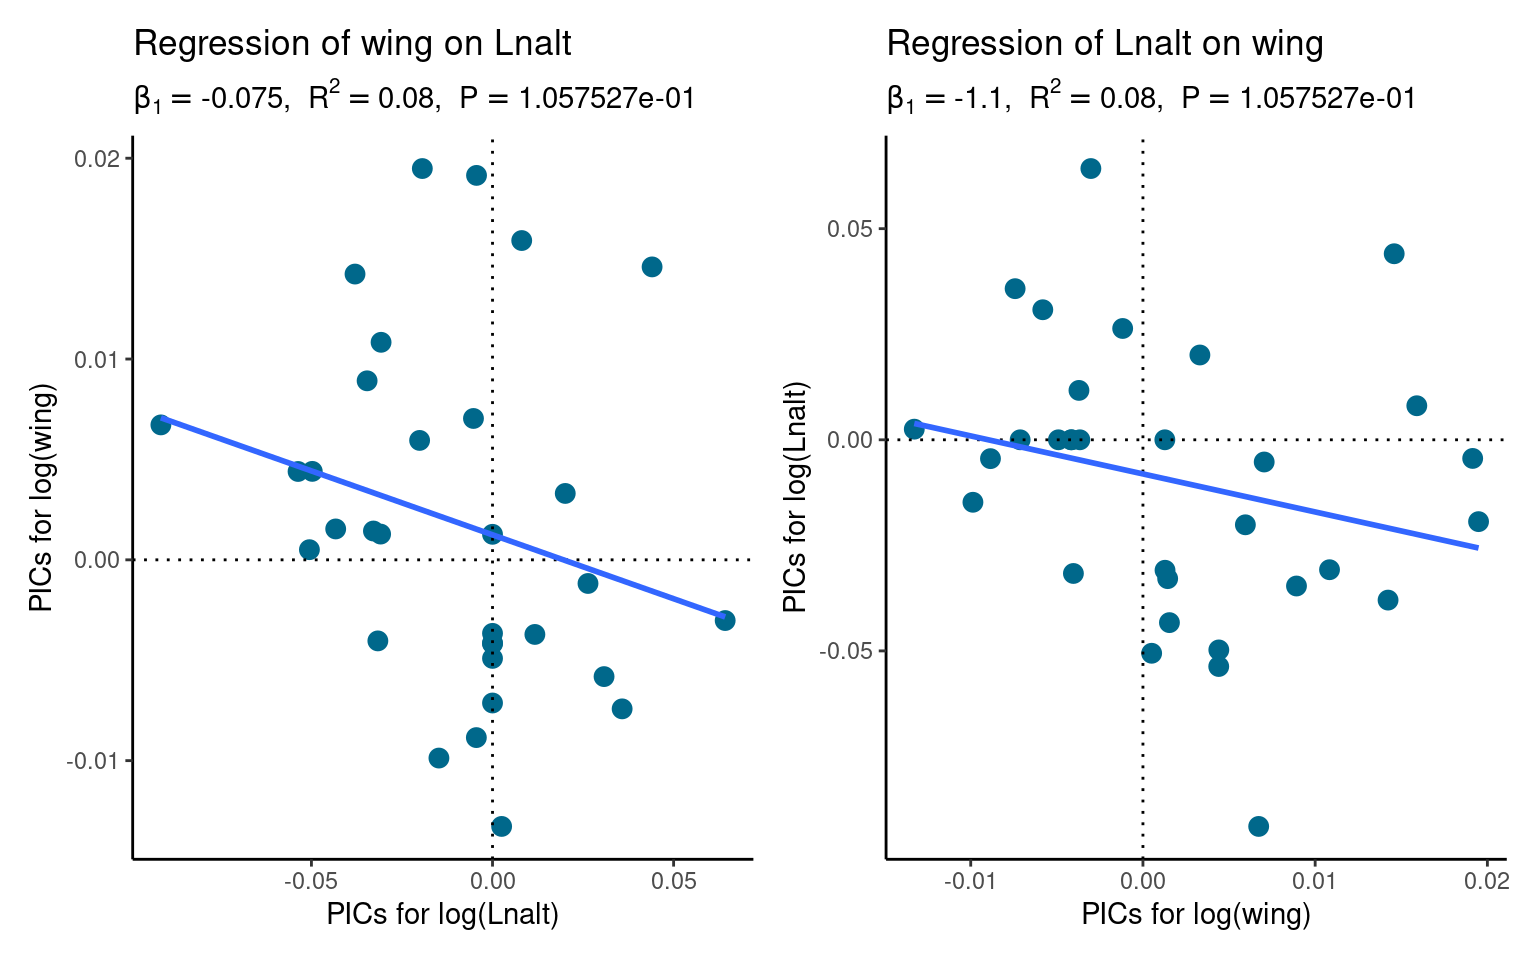
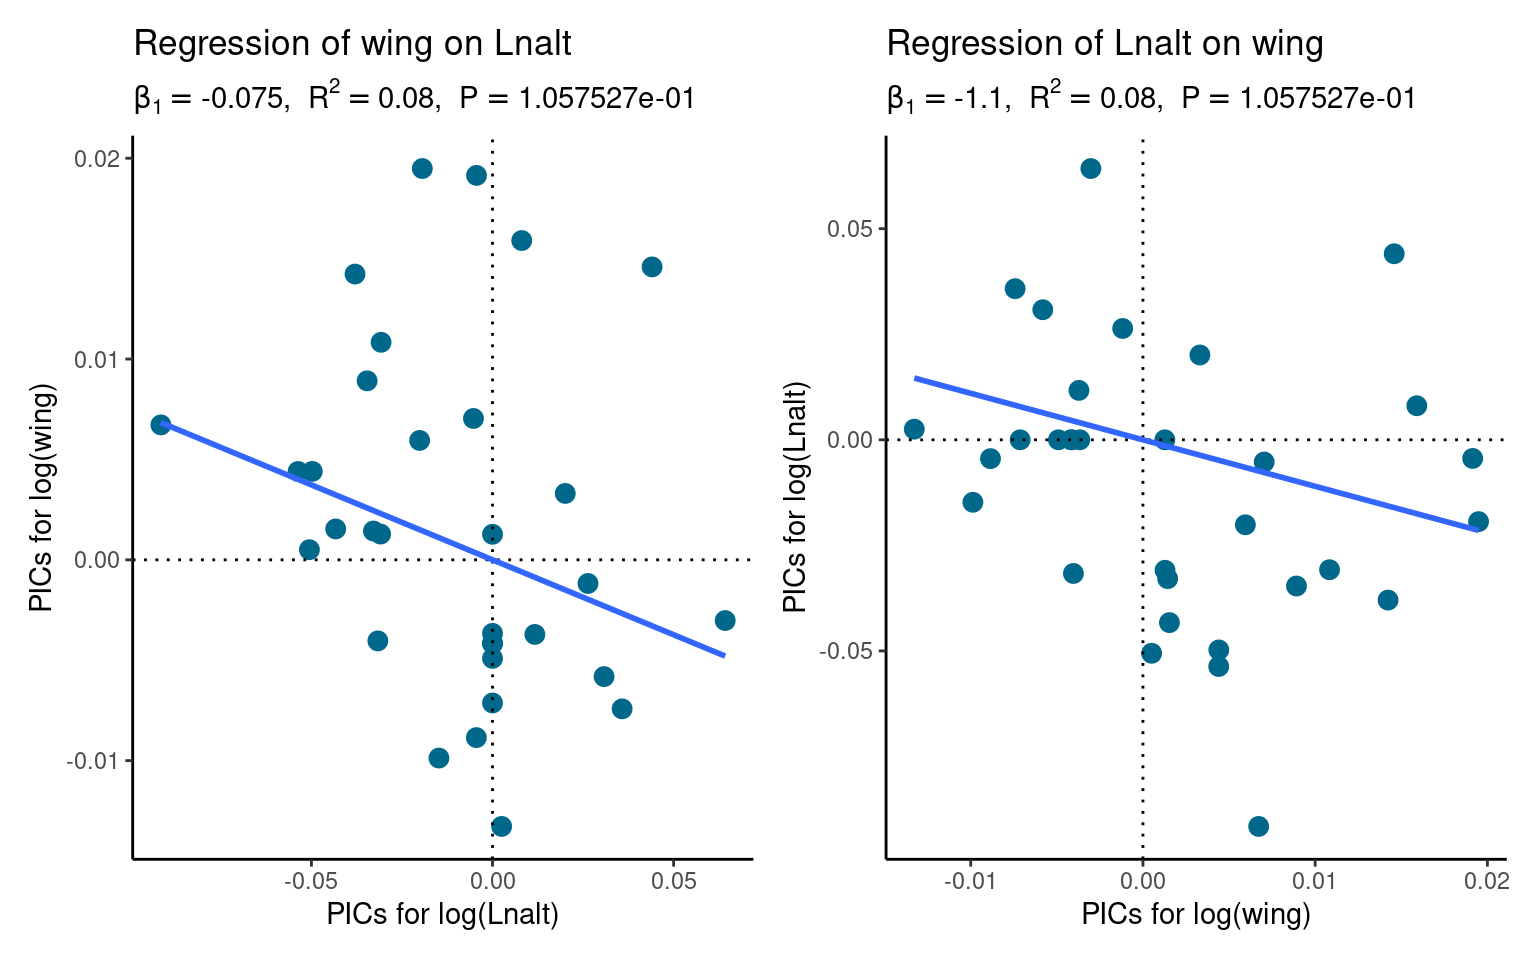
Built site for gh-pages

diff --git a/chapter_02.html b/chapter_02.html
@@ -430,6 +430,7 @@ F-statistic: 44.26 on 1 and 22 DF,  p-value: 1.091e-06</code></pre>
 </div>
 </div>
 <p>Results and conclusions did not change.</p>
+<hr>
 <ol start="2" type="1">
 <li>On the book website, we supply some data for a group of Asian barbets (<code>BarbetTree.nex</code> and <code>Barbetdata_mod.csv</code>): members of the bird family Megalaimidae <span class="citation" data-cites="gonzalez2013evolution">(<a href="#ref-gonzalez2013evolution" role="doc-biblioref">Gonzalez-Voyer et al. 2013</a>)</span>. Using these data and the method of phylogenetic independent contrasts, test for a relationship between the two variables <em>Lnalt</em> and <em>wing</em>. What do you find? How does the slope of your relationship change if you fit <em>Lnalt wing</em> versus <em>wing Lnalt</em>? How does the P-value of a statistical test of this relationship change?</li>
 </ol>
@@ -515,7 +516,7 @@ character(0)</code></pre>
 <span id="cb24-30"><a href="#cb24-30" aria-hidden="true" tabindex="-1"></a>        <span class="fu">geom_point</span>(<span class="at">size =</span> <span class="dv">3</span>, <span class="at">color =</span> <span class="st">"deepskyblue4"</span>) <span class="sc">+</span></span>
 <span id="cb24-31"><a href="#cb24-31" aria-hidden="true" tabindex="-1"></a>        <span class="fu">geom_vline</span>(<span class="at">xintercept =</span> <span class="dv">0</span>, <span class="at">linetype =</span> <span class="dv">3</span>) <span class="sc">+</span></span>
 <span id="cb24-32"><a href="#cb24-32" aria-hidden="true" tabindex="-1"></a>        <span class="fu">geom_hline</span>(<span class="at">yintercept =</span> <span class="dv">0</span>, <span class="at">linetype =</span> <span class="dv">3</span>) <span class="sc">+</span></span>
-<span id="cb24-33"><a href="#cb24-33" aria-hidden="true" tabindex="-1"></a>        <span class="fu">geom_smooth</span>(<span class="at">method =</span> <span class="st">"lm"</span>, <span class="at">se =</span> <span class="cn">FALSE</span>, <span class="at">formula =</span> <span class="st">"y ~ x"</span>) <span class="sc">+</span></span>
+<span id="cb24-33"><a href="#cb24-33" aria-hidden="true" tabindex="-1"></a>        <span class="fu">geom_smooth</span>(<span class="at">method =</span> <span class="st">"lm"</span>, <span class="at">se =</span> <span class="cn">FALSE</span>, <span class="at">formula =</span> <span class="st">"y ~ x+0"</span>) <span class="sc">+</span></span>
 <span id="cb24-34"><a href="#cb24-34" aria-hidden="true" tabindex="-1"></a>        <span class="fu">labs</span>(</span>
 <span id="cb24-35"><a href="#cb24-35" aria-hidden="true" tabindex="-1"></a>            <span class="at">title =</span> <span class="fu">paste0</span>(<span class="st">"Regression of "</span>, y, <span class="st">" on "</span>, x),</span>
 <span id="cb24-36"><a href="#cb24-36" aria-hidden="true" tabindex="-1"></a>            <span class="at">subtitle =</span> subtitle,</span>
@@ -543,6 +544,7 @@ character(0)</code></pre>
 </div>
 </div>
 <p>In both models (regressing <code>wing</code> on <code>Lnalt</code> and regressing <code>Lnalt</code> on <code>wing</code>), there is no significant association association between the variables. The P-value and variance explained remain the same, but the slope (<span class="math inline">\(B_1\)</span>) changes, which is expected considering that predictors and outcomes have been flipped.</p>
+<hr>
 <ol start="3" type="1">
 <li>If you multiply all the branches of your phylogenetic tree by 100, will your independent contrasts analysis change? Why or why not? Can you confirm this using R code? Don’t forget to use what you learned about the internal structure of a “phylo” object in chapter 1 to modify your tree.</li>
 </ol>
@@ -587,6 +589,91 @@ character(0)</code></pre>
 </div>
 </div>
 <p>The PICs change (PICs using the modified tree are the PICs of the original tree divided by 10), but the results of the regression using PICs do not change, because the relationship between the species (i.e., the tree topology) remained the same after multiplying branch lengths by 100.</p>
+<hr>
+<ol start="4" type="1">
+<li>Repeat the simulation analysis of type I error for OLS, in the last section of the chapter, but using a “pure-birth” model of diversification (i.e., trees simulated using <code>pbtree()</code> but with the extinction rate, <em>d</em>, set to 0). How does this change to the way your phylogenies are simulated affect your results? In particular, does it cause the type I error rate that results from ignoring the phylogeny to go up or go down? Can you explain the differences that you find?</li>
+</ol>
+<div class="cell">
+<div class="sourceCode cell-code" id="cb32"><pre class="sourceCode r code-with-copy"><code class="sourceCode r"><span id="cb32-1"><a href="#cb32-1" aria-hidden="true" tabindex="-1"></a><span class="co"># Define function to simulate P-values for OLS and regression on PICs</span></span>
+<span id="cb32-2"><a href="#cb32-2" aria-hidden="true" tabindex="-1"></a>simulate_pvals <span class="ot">&lt;-</span> <span class="cf">function</span>(<span class="at">birth =</span> <span class="dv">1</span>, <span class="at">death =</span> <span class="dv">0</span>) {</span>
+<span id="cb32-3"><a href="#cb32-3" aria-hidden="true" tabindex="-1"></a>    </span>
+<span id="cb32-4"><a href="#cb32-4" aria-hidden="true" tabindex="-1"></a>    <span class="co"># Helper function to simulate trees and discard trees that go extinct</span></span>
+<span id="cb32-5"><a href="#cb32-5" aria-hidden="true" tabindex="-1"></a>    sim_tree <span class="ot">&lt;-</span> <span class="cf">function</span>() { </span>
+<span id="cb32-6"><a href="#cb32-6" aria-hidden="true" tabindex="-1"></a>        tree <span class="ot">&lt;-</span> <span class="cn">NULL</span> </span>
+<span id="cb32-7"><a href="#cb32-7" aria-hidden="true" tabindex="-1"></a>        <span class="cf">while</span>(<span class="fu">is.null</span>(tree)) {</span>
+<span id="cb32-8"><a href="#cb32-8" aria-hidden="true" tabindex="-1"></a>            tree <span class="ot">&lt;-</span> <span class="fu">pbtree</span>(</span>
+<span id="cb32-9"><a href="#cb32-9" aria-hidden="true" tabindex="-1"></a>                <span class="at">n =</span> <span class="dv">100</span>, <span class="at">b =</span> birth, <span class="at">d =</span> death, <span class="at">extant.only =</span> <span class="cn">TRUE</span>, <span class="at">quiet =</span> <span class="cn">TRUE</span></span>
+<span id="cb32-10"><a href="#cb32-10" aria-hidden="true" tabindex="-1"></a>            )</span>
+<span id="cb32-11"><a href="#cb32-11" aria-hidden="true" tabindex="-1"></a>        }</span>
+<span id="cb32-12"><a href="#cb32-12" aria-hidden="true" tabindex="-1"></a>        <span class="fu">return</span>(tree)</span>
+<span id="cb32-13"><a href="#cb32-13" aria-hidden="true" tabindex="-1"></a>    }</span>
+<span id="cb32-14"><a href="#cb32-14" aria-hidden="true" tabindex="-1"></a>    </span>
+<span id="cb32-15"><a href="#cb32-15" aria-hidden="true" tabindex="-1"></a></span>
+<span id="cb32-16"><a href="#cb32-16" aria-hidden="true" tabindex="-1"></a>    <span class="co"># Simulate 500 trees in a list using replicate</span></span>
+<span id="cb32-17"><a href="#cb32-17" aria-hidden="true" tabindex="-1"></a>    trees <span class="ot">&lt;-</span> <span class="fu">replicate</span>(<span class="dv">500</span>, <span class="fu">sim_tree</span>(), <span class="at">simplify=</span><span class="cn">FALSE</span>)  </span>
+<span id="cb32-18"><a href="#cb32-18" aria-hidden="true" tabindex="-1"></a>    <span class="fu">class</span>(trees) <span class="ot">&lt;-</span> <span class="st">"multiPhylo"</span></span>
+<span id="cb32-19"><a href="#cb32-19" aria-hidden="true" tabindex="-1"></a>    </span>
+<span id="cb32-20"><a href="#cb32-20" aria-hidden="true" tabindex="-1"></a>    <span class="co"># Simulate a list of `x` and `y` vectors, one for each tree  </span></span>
+<span id="cb32-21"><a href="#cb32-21" aria-hidden="true" tabindex="-1"></a>    x <span class="ot">&lt;-</span> <span class="fu">lapply</span>(trees, fastBM)</span>
+<span id="cb32-22"><a href="#cb32-22" aria-hidden="true" tabindex="-1"></a>    y <span class="ot">&lt;-</span> <span class="fu">lapply</span>(trees, fastBM)</span>
+<span id="cb32-23"><a href="#cb32-23" aria-hidden="true" tabindex="-1"></a>    </span>
+<span id="cb32-24"><a href="#cb32-24" aria-hidden="true" tabindex="-1"></a>    <span class="co"># 1) Fit non-phylogenetic regression (OLS) of y ~ x</span></span>
+<span id="cb32-25"><a href="#cb32-25" aria-hidden="true" tabindex="-1"></a>    fit_ols <span class="ot">&lt;-</span> <span class="fu">mapply</span>(<span class="cf">function</span>(x, y) <span class="fu">lm</span>(y <span class="sc">~</span> x), x, y, <span class="at">SIMPLIFY=</span><span class="cn">FALSE</span>)</span>
+<span id="cb32-26"><a href="#cb32-26" aria-hidden="true" tabindex="-1"></a>    </span>
+<span id="cb32-27"><a href="#cb32-27" aria-hidden="true" tabindex="-1"></a>    p_ols <span class="ot">&lt;-</span> <span class="fu">vapply</span>(</span>
+<span id="cb32-28"><a href="#cb32-28" aria-hidden="true" tabindex="-1"></a>        fit_ols, <span class="cf">function</span>(x) <span class="fu">summary</span>(x)<span class="sc">$</span>coefficients[<span class="dv">2</span>, <span class="dv">4</span>], <span class="fu">numeric</span>(<span class="dv">1</span>)</span>
+<span id="cb32-29"><a href="#cb32-29" aria-hidden="true" tabindex="-1"></a>    )</span>
+<span id="cb32-30"><a href="#cb32-30" aria-hidden="true" tabindex="-1"></a>    </span>
+<span id="cb32-31"><a href="#cb32-31" aria-hidden="true" tabindex="-1"></a>    <span class="co"># 2) Fit regression on PICs</span></span>
+<span id="cb32-32"><a href="#cb32-32" aria-hidden="true" tabindex="-1"></a>    pic.x <span class="ot">&lt;-</span> <span class="fu">mapply</span>(pic, x, trees, <span class="at">SIMPLIFY =</span> <span class="cn">FALSE</span>)</span>
+<span id="cb32-33"><a href="#cb32-33" aria-hidden="true" tabindex="-1"></a>    pic.y <span class="ot">&lt;-</span> <span class="fu">mapply</span>(pic, y, trees, <span class="at">SIMPLIFY =</span> <span class="cn">FALSE</span>) </span>
+<span id="cb32-34"><a href="#cb32-34" aria-hidden="true" tabindex="-1"></a>    fit_pic <span class="ot">&lt;-</span> <span class="fu">mapply</span>(<span class="cf">function</span>(x, y) <span class="fu">lm</span>(y <span class="sc">~</span> x<span class="sc">+</span><span class="dv">0</span>), pic.x, pic.y, <span class="at">SIMPLIFY =</span> <span class="cn">FALSE</span>)</span>
+<span id="cb32-35"><a href="#cb32-35" aria-hidden="true" tabindex="-1"></a>    </span>
+<span id="cb32-36"><a href="#cb32-36" aria-hidden="true" tabindex="-1"></a>    p_pic <span class="ot">&lt;-</span> <span class="fu">vapply</span>(</span>
+<span id="cb32-37"><a href="#cb32-37" aria-hidden="true" tabindex="-1"></a>        fit_pic, <span class="cf">function</span>(x) <span class="fu">summary</span>(x)<span class="sc">$</span>coefficients[<span class="dv">4</span>], <span class="fu">numeric</span>(<span class="dv">1</span>)</span>
+<span id="cb32-38"><a href="#cb32-38" aria-hidden="true" tabindex="-1"></a>    )</span>
+<span id="cb32-39"><a href="#cb32-39" aria-hidden="true" tabindex="-1"></a>    </span>
+<span id="cb32-40"><a href="#cb32-40" aria-hidden="true" tabindex="-1"></a>    <span class="co"># Store p-values in a list</span></span>
+<span id="cb32-41"><a href="#cb32-41" aria-hidden="true" tabindex="-1"></a>    results <span class="ot">&lt;-</span> <span class="fu">list</span>(<span class="at">P_OLS =</span> p_ols, <span class="at">P_PIC =</span> p_pic)</span>
+<span id="cb32-42"><a href="#cb32-42" aria-hidden="true" tabindex="-1"></a>    <span class="fu">return</span>(results)</span>
+<span id="cb32-43"><a href="#cb32-43" aria-hidden="true" tabindex="-1"></a>}</span>
+<span id="cb32-44"><a href="#cb32-44" aria-hidden="true" tabindex="-1"></a></span>
+<span id="cb32-45"><a href="#cb32-45" aria-hidden="true" tabindex="-1"></a></span>
+<span id="cb32-46"><a href="#cb32-46" aria-hidden="true" tabindex="-1"></a><span class="co"># Get P-values for regressions on simulated data</span></span>
+<span id="cb32-47"><a href="#cb32-47" aria-hidden="true" tabindex="-1"></a><span class="do">## Book example</span></span>
+<span id="cb32-48"><a href="#cb32-48" aria-hidden="true" tabindex="-1"></a>pvals_book <span class="ot">&lt;-</span> <span class="fu">simulate_pvals</span>(<span class="at">birth =</span> <span class="dv">1</span>, <span class="at">death =</span> <span class="fl">0.8</span>)</span>
+<span id="cb32-49"><a href="#cb32-49" aria-hidden="true" tabindex="-1"></a></span>
+<span id="cb32-50"><a href="#cb32-50" aria-hidden="true" tabindex="-1"></a><span class="do">## Practice problem (d = 0)</span></span>
+<span id="cb32-51"><a href="#cb32-51" aria-hidden="true" tabindex="-1"></a>pvals_practice <span class="ot">&lt;-</span> <span class="fu">simulate_pvals</span>(<span class="at">birth =</span> <span class="dv">1</span>, <span class="at">death =</span> <span class="dv">0</span>)</span>
+<span id="cb32-52"><a href="#cb32-52" aria-hidden="true" tabindex="-1"></a></span>
+<span id="cb32-53"><a href="#cb32-53" aria-hidden="true" tabindex="-1"></a><span class="co"># Plot P-vals as histograms</span></span>
+<span id="cb32-54"><a href="#cb32-54" aria-hidden="true" tabindex="-1"></a>plot_pvals <span class="ot">&lt;-</span> <span class="fu">rbind</span>(</span>
+<span id="cb32-55"><a href="#cb32-55" aria-hidden="true" tabindex="-1"></a>    <span class="fu">data.frame</span>(<span class="at">P =</span> pvals_book<span class="sc">$</span>P_OLS, <span class="at">Method =</span> <span class="st">"OLS, d = 0.8"</span>),</span>
+<span id="cb32-56"><a href="#cb32-56" aria-hidden="true" tabindex="-1"></a>    <span class="fu">data.frame</span>(<span class="at">P =</span> pvals_book<span class="sc">$</span>P_PIC, <span class="at">Method =</span> <span class="st">"PIC, d = 0.8"</span>),</span>
+<span id="cb32-57"><a href="#cb32-57" aria-hidden="true" tabindex="-1"></a>    <span class="fu">data.frame</span>(<span class="at">P =</span> pvals_practice<span class="sc">$</span>P_OLS, <span class="at">Method =</span> <span class="st">"OLS, d = 0"</span>),</span>
+<span id="cb32-58"><a href="#cb32-58" aria-hidden="true" tabindex="-1"></a>    <span class="fu">data.frame</span>(<span class="at">P =</span> pvals_practice<span class="sc">$</span>P_PIC, <span class="at">Method =</span> <span class="st">"PIC, d = 0"</span>)</span>
+<span id="cb32-59"><a href="#cb32-59" aria-hidden="true" tabindex="-1"></a>) <span class="sc">|&gt;</span></span>
+<span id="cb32-60"><a href="#cb32-60" aria-hidden="true" tabindex="-1"></a>    <span class="fu">ggplot</span>(<span class="fu">aes</span>(<span class="at">x =</span> P)) <span class="sc">+</span></span>
+<span id="cb32-61"><a href="#cb32-61" aria-hidden="true" tabindex="-1"></a>    <span class="fu">geom_histogram</span>(</span>
+<span id="cb32-62"><a href="#cb32-62" aria-hidden="true" tabindex="-1"></a>        <span class="fu">aes</span>(<span class="at">y =</span> <span class="fu">after_stat</span>(width <span class="sc">*</span> density)),</span>
+<span id="cb32-63"><a href="#cb32-63" aria-hidden="true" tabindex="-1"></a>        <span class="at">color =</span> <span class="st">"gray20"</span>, <span class="at">fill =</span> <span class="st">"gray80"</span>, <span class="at">bins =</span> <span class="dv">30</span></span>
+<span id="cb32-64"><a href="#cb32-64" aria-hidden="true" tabindex="-1"></a>    ) <span class="sc">+</span></span>
+<span id="cb32-65"><a href="#cb32-65" aria-hidden="true" tabindex="-1"></a>    <span class="fu">geom_hline</span>(<span class="at">yintercept =</span> <span class="fl">0.05</span>, <span class="at">linetype =</span> <span class="dv">3</span>) <span class="sc">+</span></span>
+<span id="cb32-66"><a href="#cb32-66" aria-hidden="true" tabindex="-1"></a>    <span class="fu">facet_wrap</span>(<span class="sc">~</span>Method) <span class="sc">+</span></span>
+<span id="cb32-67"><a href="#cb32-67" aria-hidden="true" tabindex="-1"></a>    <span class="fu">labs</span>(</span>
+<span id="cb32-68"><a href="#cb32-68" aria-hidden="true" tabindex="-1"></a>        <span class="at">x =</span> <span class="st">"P-values"</span>, <span class="at">y =</span> <span class="st">"Relative frequency"</span>,</span>
+<span id="cb32-69"><a href="#cb32-69" aria-hidden="true" tabindex="-1"></a>        <span class="at">title =</span> <span class="st">"Distribution of P-values for OLS regression and PIC regression"</span>,</span>
+<span id="cb32-70"><a href="#cb32-70" aria-hidden="true" tabindex="-1"></a>        <span class="at">subtitle =</span> <span class="st">"Uncorrelated data were simulated on stochastic birth–death phylogenies"</span></span>
+<span id="cb32-71"><a href="#cb32-71" aria-hidden="true" tabindex="-1"></a>    ) <span class="sc">+</span></span>
+<span id="cb32-72"><a href="#cb32-72" aria-hidden="true" tabindex="-1"></a>    <span class="fu">ylim</span>(<span class="dv">0</span>, <span class="fl">0.5</span>) <span class="sc">+</span></span>
+<span id="cb32-73"><a href="#cb32-73" aria-hidden="true" tabindex="-1"></a>    <span class="fu">theme_bw</span>()</span>
+<span id="cb32-74"><a href="#cb32-74" aria-hidden="true" tabindex="-1"></a></span>
+<span id="cb32-75"><a href="#cb32-75" aria-hidden="true" tabindex="-1"></a>plot_pvals</span></code><button title="Copy to Clipboard" class="code-copy-button"><i class="bi"></i></button></pre></div>
+<div class="cell-output-display">
+<p><img src="chapter_02_files/figure-html/unnamed-chunk-5-1.png" class="img-fluid" width="672"></p>
+</div>
+</div>
+<p>When we replace <code>d = 0.8</code> with <code>d = 0</code>, the type I error rates go down. A possible explanation is that setting <code>d = 0</code> leads to no extinction in the simulation, leading to a larger number of extant lineages at a given time as compared to <code>d = 0.8</code>. Thus, such larger number of extant lineages increases statistical power, hence leading to lower type I error rates.</p>
 </section>
 <section id="references" class="level2 unnumbered">
 <h2 class="unnumbered anchored" data-anchor-id="references">References</h2>
